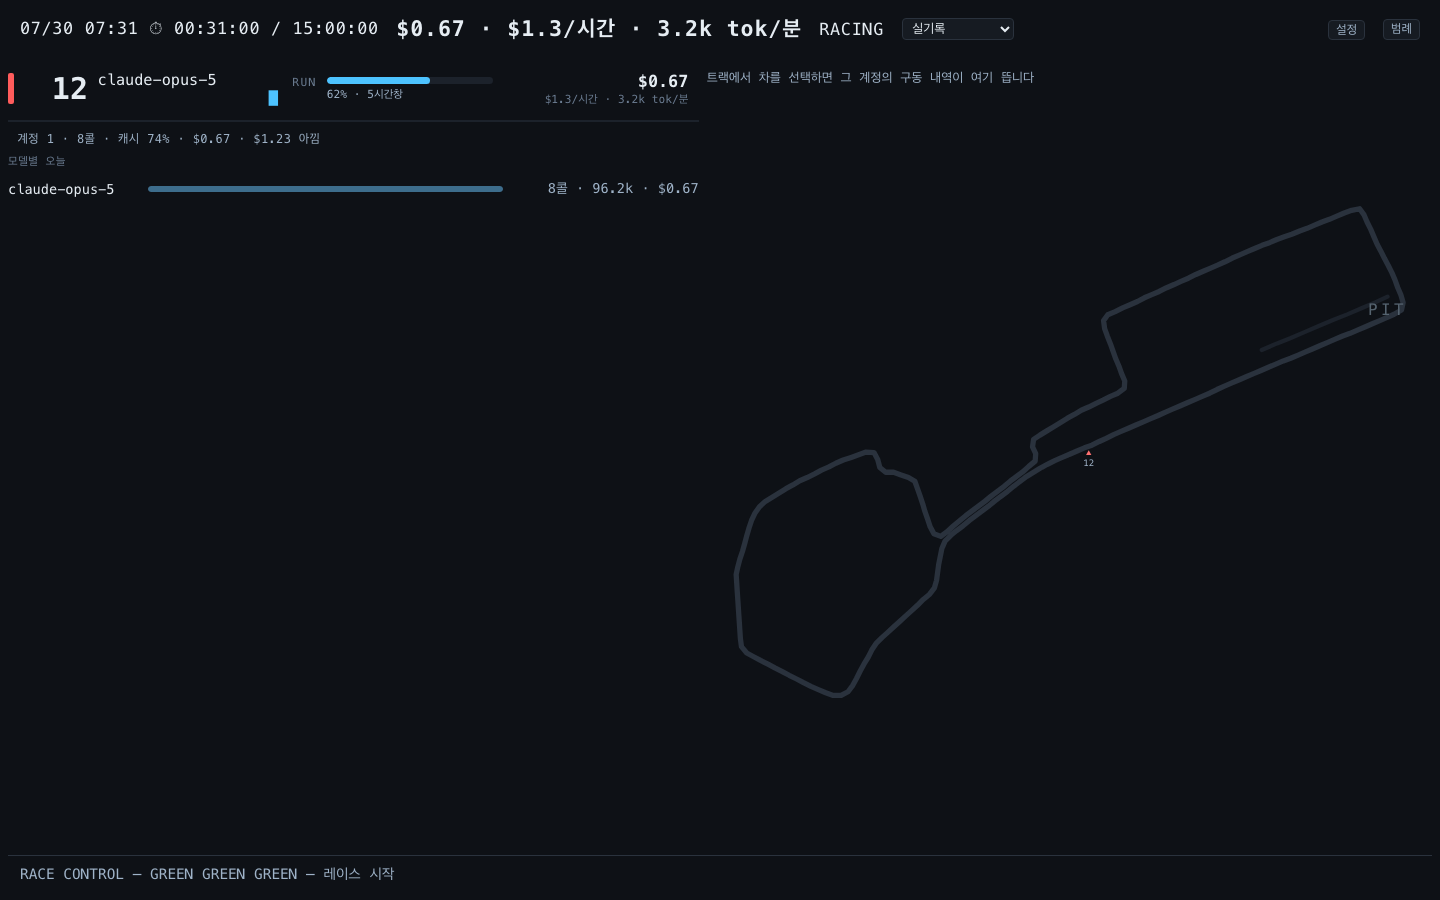
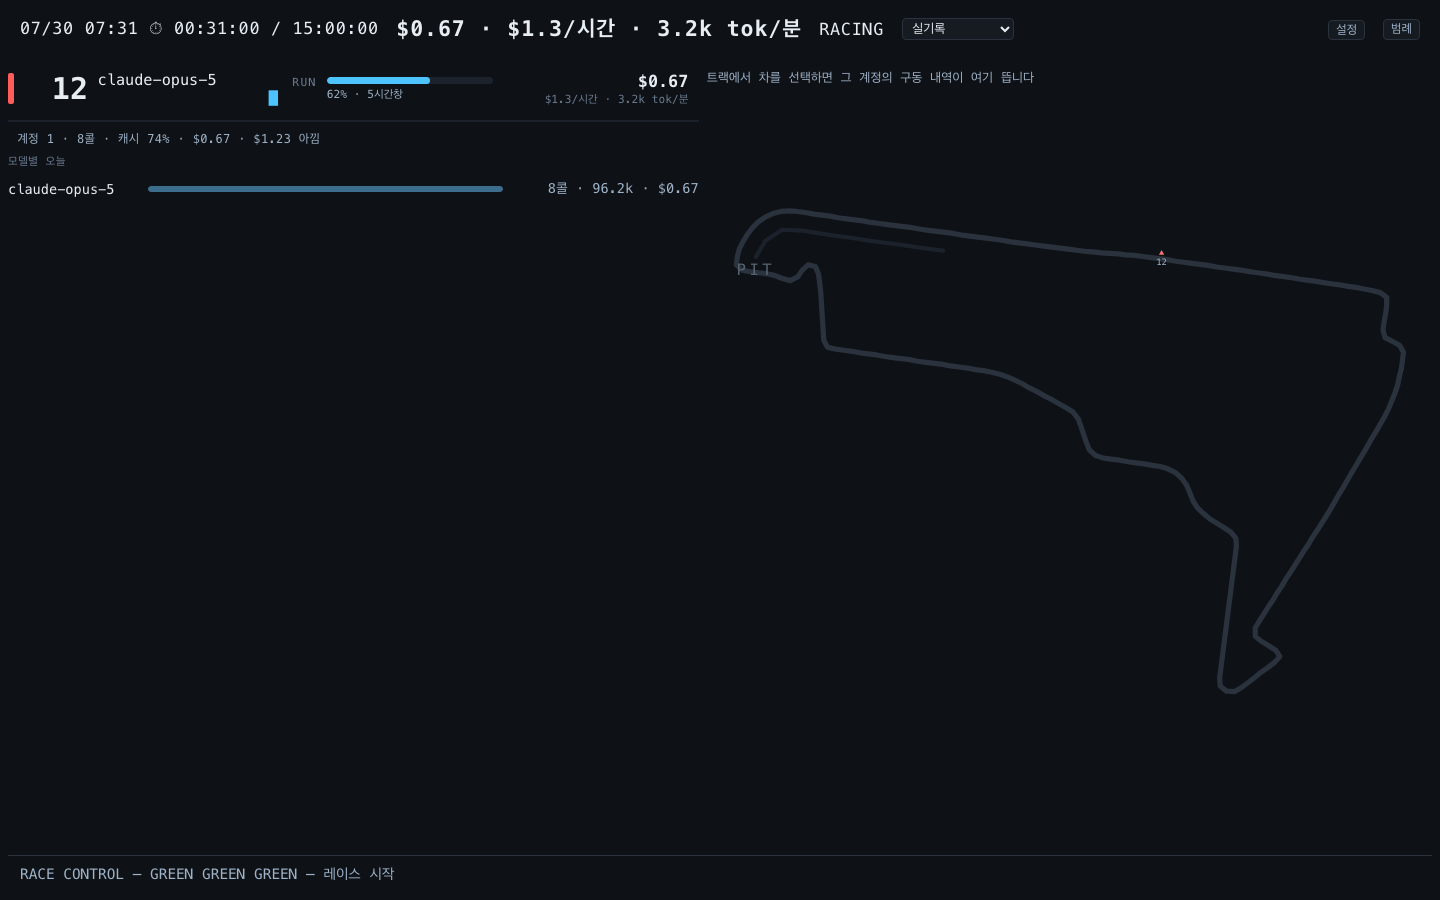
fix: park stopped cars far enough apart to be counted
Nine cars in the pit were one blob. The three stop glyphs - amber for a
spent limit, red for an error, blue for idle - sat on top of each other,
so the one thing this screen does that the other twenty tools do not,
telling apart why a car stopped, was destroyed exactly when it mattered.

Pit boxes were spaced by a fixed step of lap progress, but they are drawn
pushed inward from the centreline by PIT_LANE_OFFSET. The inside of a
curve is shorter than the centreline, so the same progress step collapses
on screen, by an amount that depends on how hard that stretch bends.
Measuring the geometry instead of chasing the browser: eight of forty real
circuits put neighbouring boxes closer than a glyph diameter with nine
cars stopped, worst 1.9 at Monaco. The gaps run 22, 24, 20, 22, 24, 13, 6,
3 - they fall apart toward the end, because the pit entry is the middle of
the flattest stretch, so the boxes walk out of it and into the corner.

No value of a progress step fixes that; the compression ratio differs per
circuit. Spacing is now a real distance along the pit lane, walked one
polyline segment at a time, placing each box once it is far enough from
the one before. Corners simply consume more lane.

The distance is set by the stop mark, not the glyph. At 1.4x the diameter
the bodies separated but the amber gauge still lay across the car ahead,
because the mark reaches 25 units above the centre. At 3x nothing touches,
[…]

diff --git a/pitwall/src/track/layout.ts b/pitwall/src/track/layout.ts
@@ -50,8 +50,31 @@ export const PIT_LANE_OFFSET = -(LANE_OFFSETS.H + LANE_JITTER + GLYPH_DIAMETER /
 /** 피트 레인 선의 굵기. 주행선보다 얇아야 어느 쪽이 코스인지 안 헷갈린다. */
 export const PIT_LANE_STROKE = TRACK_STROKE * 0.8;
 
-/** 피트 박스 사이 간격 (진행률). 글리프가 겹치지 않을 만큼. */
-const PIT_BOX_GAP = 0.008;
+/**
+ * 피트 박스 사이 최소 거리 — **화면 거리**이지 진행률이 아니다.
+ *
+ * 예전에는 진행률 0.008 고정이었다. 진행률은 **중심선** 기준인데 피트 박스는
+ * `PIT_LANE_OFFSET`만큼 안쪽으로 밀어서 그린다. 안쪽으로 민 곡선은 중심선보다
+ * 짧으므로, 코너에서는 같은 진행률 간격이 화면에서 압축된다 — 코스가 얼마나
+ * 꺾이느냐에 따라 압축률이 달라진다.
+ *
+ * 실측(40개 서킷, 정지 9대): 8개 서킷에서 이웃 간격이 글리프 지름 10 아래로
+ * 내려갔다. 최악은 `mc-1929` 1.9 · `us-1956` 2.2 · `hu-1986` 2.3. 간격이
+ * `22,24,20,22,24,13,6,3`처럼 **뒤로 갈수록 무너지는데**, 피트 진입점이
+ * 가장 덜 꺾이는 구간의 *한가운데*(`flattestStretch`)라 박스가 그 구간을 벗어나
+ * 코너로 들어가기 때문이다. 화면에서는 정지 차량 9대가 한 덩어리가 되어
+ * 한도(노랑)와 에러(빨강)를 구분할 수도, 셀 수도 없었다.
+ *
+ * **기준은 글리프가 아니라 정지 표식이다.** 표식(느낌표·빈 게이지)은 글리프 위에
+ * 그려져 중심에서 위로 25(`GLYPH_SIZE + 20`)까지 뻗고 글리프는 아래로 5 내려간다.
+ * 레인이 세로로 서면 한 대의 표식이 앞 차의 몸통을 덮으므로 필요한 것은 지름 10이
+ * 아니라 **30**이다. 실제로 1.4배(14)로 잡았을 때 글리프는 떨어졌는데 노란 게이지가
+ * 여전히 위 차에 얹혔다 — 표식이 겹치면 한도와 에러를 나눈 의미가 사라진다.
+ *
+ * 실측(서킷 40개 + 생성 시드 300개, 정지 12대): 30에서도 전부 자리를 찾고
+ * 레인 길이는 최대 529다 (좌표계 세로 1000).
+ */
+const PIT_BOX_SPACING = GLYPH_DIAMETER * 3;
 
 /**
  * 정지한 차가 서는 자리.
@@ -60,24 +83,46 @@ const PIT_BOX_GAP = 0.008;
  * 거짓이 된다 — 달리는 차의 길을 막고, 멈춘 차가 여전히 경기 중인 것처럼 보인다.
  * 실제 경기와 같이 피트로 들여보낸다.
  *
- * 박스는 피트 진입점부터 순서대로 늘어선다. 자리 번호는 호출자가 정한다.
+ * 박스는 피트 진입점부터 순서대로 늘어선다. 진행률을 일정하게 더하는 대신
+ * **피트 레인을 실제로 걸어가며** 직전 박스에서 `PIT_BOX_SPACING`만큼 떨어진
+ * 지점에 세운다. 그래서 코너에서는 자연히 더 멀리 간다.
  */
-export function pitBoxAt(track: Track, slot: number, _slots: number): Point {
-  return positionAt(track, pitProgressAt(track, slot), 'P', 0, PIT_LANE_OFFSET);
-}
-
-/** 피트 레인이 차지하는 진행률 구간. 레인을 그릴 때와 세울 때가 같은 식을 쓴다. */
-export function pitProgressAt(track: Track, slot: number): number {
-  return track.pitEntry / track.points.length + slot * PIT_BOX_GAP;
-}
-
-/** 피트 레인 폴리라인. 차만 안쪽에 떠 있으면 트랙을 벗어난 것으로 읽힌다. */
-export function pitLanePoints(track: Track, boxes = 8): Point[] {
+export function pitBoxes(track: Track, slots: number): Point[] {
   const out: Point[] = [];
-  for (let i = -1; i <= boxes; i++) {
-    out.push(positionAt(track, pitProgressAt(track, i), 'P', 0, PIT_LANE_OFFSET));
+  if (slots <= 0) return out;
+
+  const n = track.points.length;
+  const step = 1 / n;                       // 폴리라인 한 마디
+  let progress = track.pitEntry / n;
+  out.push(pitPointAt(track, progress));
+
+  // 한 바퀴가 상한이다. 실측(서킷 40개 + 생성 시드 300개, 12대)에서는
+  // 한 바퀴를 다 쓰기 전에 전부 자리를 찾았다.
+  for (let k = 0; k < n && out.length < slots; k++) {
+    progress += step;
+    const here = pitPointAt(track, progress);
+    const last = out[out.length - 1]!;
+    if (Math.hypot(here.x - last.x, here.y - last.y) >= PIT_BOX_SPACING) out.push(here);
   }
   return out;
+}
+
+function pitPointAt(track: Track, progress: number): Point {
+  return positionAt(track, progress, 'P', 0, PIT_LANE_OFFSET);
+}
+
+/**
+ * 피트 레인 폴리라인.
+ *
+ * 세우는 곳과 그리는 곳이 **같은 함수**를 쓴다. 예전에는 레인을 8칸으로 고정해
+ * 그려서 9번째 차부터는 선 밖에 떠 있었다 — 차만 안쪽에 떠 있으면 트랙을
+ * 벗어난 것으로 읽힌다. 진입 직전 한 마디를 앞에 붙여 선이 코스에서 갈라져
+ * 나오는 것처럼 보이게 한다.
+ */
+export function pitLanePoints(track: Track, boxes = 8): Point[] {
+  const spots = pitBoxes(track, Math.max(2, boxes));
+  const lead = pitPointAt(track, track.pitEntry / track.points.length - 1 / track.points.length);
+  return [lead, ...spots];
 }
 
 /** 한 레인에 그릴 수 있는 최대 차량 수 (PRD §6.4) */

diff --git a/pitwall/tests/layout.test.ts b/pitwall/tests/layout.test.ts
@@ -1,8 +1,10 @@
 import { describe, it, expect } from 'vitest';
 import {
   positionAt, assignLanes, LANE_OFFSETS, LANE_RENDER_CAP,
-  pitBoxAt, TRACK_HALF_WIDTH, GLYPH_DIAMETER,
+  pitBoxes, TRACK_HALF_WIDTH, GLYPH_DIAMETER,
 } from '../src/track/layout';
+import { CIRCUITS } from '../src/track/circuitData';
+import { toTrack } from '../src/track/circuits';
 import { generateTrack } from '../src/track/generateTrack';
 import type { CarState, CarClass } from '../src/types';
 
@@ -105,7 +107,7 @@ describe('피트', () => {
 
   it('피트 박스는 트랙 바깥에 놓인다 — 정지한 차가 주행선을 막지 않는다', () => {
     const onTrack = positionAt(track, track.pitEntry / track.points.length, 'P', 0);
-    const inPit = pitBoxAt(track, 0, 1);
+    const inPit = pitBoxes(track, 1)[0]!;
     const centre = track.points[track.pitEntry]!;
     const dOn = Math.hypot(onTrack.x - centre.x, onTrack.y - centre.y);
     const dPit = Math.hypot(inPit.x - centre.x, inPit.y - centre.y);
@@ -113,15 +115,44 @@ describe('피트', () => {
   });
 
   it('여러 대가 서면 서로 다른 박스를 쓴다', () => {
-    const a = pitBoxAt(track, 0, 3);
-    const b = pitBoxAt(track, 1, 3);
-    expect(Math.hypot(a.x - b.x, a.y - b.y)).toBeGreaterThan(GLYPH_DIAMETER);
+    const [a, b] = pitBoxes(track, 3);
+    expect(Math.hypot(a!.x - b!.x, a!.y - b!.y)).toBeGreaterThan(GLYPH_DIAMETER);
   });
 
   it('박스는 피트 구간 안에 머문다', () => {
-    for (let i = 0; i < 8; i++) {
-      const p = pitBoxAt(track, i, 8);
+    for (const p of pitBoxes(track, 8)) {
       expect(Number.isFinite(p.x) && Number.isFinite(p.y)).toBe(true);
+    }
+  });
+
+  /*
+   * 이 화면에서 정지 사유(한도 노랑 / 에러 빨강)를 나누는 것은 다른 도구가 안 하는
+   * 일인데, 글리프가 겹치면 그 구분이 그대로 죽는다. 실제로 죽어 있었다 —
+   * 40개 서킷 중 8개에서 정지 9대의 이웃 간격이 지름 10 아래로 내려갔고,
+   * `mc-1929`는 1.9였다. 원인은 간격을 **중심선 진행률**로 잡고 그리기는
+   * 안쪽으로 민 곡선에 한 것이다. 코너에서 안쪽 곡선이 짧아 간격이 압축된다.
+   *
+   * 피트에 설 수 있는 최대는 `HOT_CAP`(12)이다.
+   */
+  it('실제 서킷 40개 전부에서 정지 12대가 겹치지 않는다', () => {
+    for (const circuit of CIRCUITS) {
+      const spots = pitBoxes(toTrack(circuit, 1), 12);
+      expect(spots, circuit.id).toHaveLength(12);
+      for (let i = 1; i < spots.length; i++) {
+        const gap = Math.hypot(spots[i]!.x - spots[i - 1]!.x, spots[i]!.y - spots[i - 1]!.y);
+        expect(gap, `${circuit.id} slot ${i}`).toBeGreaterThanOrEqual(GLYPH_DIAMETER);
+      }
+    }
+  });
+
+  it('지어낸 코스에서도 같다 — 피트 진입점이 무작위다', () => {
+    for (let seed = 1; seed <= 60; seed++) {
+      const spots = pitBoxes(generateTrack(seed), 12);
+      expect(spots, `seed ${seed}`).toHaveLength(12);
+      for (let i = 1; i < spots.length; i++) {
+        const gap = Math.hypot(spots[i]!.x - spots[i - 1]!.x, spots[i]!.y - spots[i - 1]!.y);
+        expect(gap, `seed ${seed} slot ${i}`).toBeGreaterThanOrEqual(GLYPH_DIAMETER);
+      }
     }
   });
 });

diff --git a/pitwall/src/render/trackRenderer.ts b/pitwall/src/render/trackRenderer.ts
@@ -1,10 +1,11 @@
 import { trackWidth, TRACK_STROKE } from '../track/generateTrack';
 import type { Point, Track } from '../track/generateTrack';
-import { positionAt, pitBoxAt, pitLanePoints, PIT_LANE_STROKE } from '../track/layout';
+import { positionAt, pitBoxes, pitLanePoints, PIT_LANE_STROKE } from '../track/layout';
 import { Projector } from './projection';
 import { CLASS_STYLE } from '../config/theme';
 import type { CarClass } from '../types';
 import type { HotCar, RenderCar, TrackModel } from '../track/trackModel';
+import { HOT_CAP } from '../track/trackModel';
 
 const SVG_NS = 'http://www.w3.org/2000/svg';
 
@@ -193,7 +194,9 @@ export class TrackRenderer {
    * 설 자리가 그려져 있어야 정지가 사고가 아니라 피트인으로 보인다.
    */
   private drawPitLane(): void {
-    const pts = pitLanePoints(this.track);
+    // 피트에 설 수 있는 최대만큼 그린다. 8칸 고정이던 시절에는 9번째 차부터
+    // 선 밖에 떠 있었고, 그러면 정지가 아니라 코스 이탈로 읽힌다.
+    const pts = pitLanePoints(this.track, HOT_CAP);
     const path = document.createElementNS(SVG_NS, 'path');
     path.setAttribute('class', 'pit-lane');
     path.setAttribute('d', pts
@@ -328,7 +331,11 @@ export class TrackRenderer {
    */
 
   private renderHot(hot: HotCar[], labelled: boolean, now: number): void {
-    // 피트 박스 번호. 멈춘 차만 센다.
+    /*
+     * 세울 자리를 먼저 만든다. 간격이 진행률이 아니라 **앞 박스와의 실제 거리**로
+     * 정해지므로, 자리 하나를 따로 계산할 수 없고 몇 대가 서는지 알아야 한다.
+     */
+    const boxes = pitBoxes(this.track, hot.filter((c) => STOPPED.has(c.reason)).length);
     let pitSlot = 0;
 
     hot.forEach((car, i) => {
@@ -366,7 +373,8 @@ export class TrackRenderer {
       if (STOPPED.has(car.reason)) {
         // 피트에 선 차는 굴러가지 않는다. 자리만 기억해 둔다.
         this.projector.hold(car.carId, now);
-        translate(node.group, pitBoxAt(this.track, pitSlot, hot.length));
+        // 자리가 모자라면 마지막 칸에 겹쳐 세운다 — 트랙 위에 두는 것보다 낫다.
+        translate(node.group, boxes[pitSlot] ?? boxes[boxes.length - 1]!);
         pitSlot += 1;
       } else {
         const next = this.projector.step(car.carId, car.progress, now);

diff --git a/pitwall/tests/trackRenderer.test.ts b/pitwall/tests/trackRenderer.test.ts
@@ -1,6 +1,6 @@
 import { describe, it, expect, beforeEach } from 'vitest';
 import { TrackRenderer, GLYPH_DIAMETER } from '../src/render/trackRenderer';
-import { pitBoxAt } from '../src/track/layout';
+import { pitBoxes } from '../src/track/layout';
 import { generateTrack } from '../src/track/generateTrack';
 import { buildTrackModel, HOT_CAP } from '../src/track/trackModel';
 import type { HighlightType, TrackModelOptions } from '../src/track/trackModel';
@@ -471,7 +471,7 @@ describe('피트', () => {
     const g = svg.querySelector('g.car') as SVGGElement;
     const at = g.style.transform;
 
-    const box = pitBoxAt(track, 0, 1);
+    const box = pitBoxes(track, 1)[0]!;
     expect(at).toBe(`translate(${box.x.toFixed(2)}px, ${box.y.toFixed(2)}px)`);
   });
 

diff --git a/docs/superpowers/specs/2026-07-31-uiux-prd.md b/docs/superpowers/specs/2026-07-31-uiux-prd.md
@@ -1,6 +1,6 @@
 # PITWALL — UI/UX 개선 PRD
 
-**v1.2** · 2026-07-31 · 상태: **P0-1 · P1-2 · P1-3 · P1-4 반영 완료.** P1-1만 미착수
+**v1.3** · 2026-07-31 · 상태: **전부 반영 완료.** 미결은 §8만 남았다
 근거: [2차 벤치마크 §7](../../reference/2026-07-31-usage-visualisation-benchmark.md) ·
 스크린샷 `docs/screenshots/2026-07-31-before-*.png`(수정 전) / `2026-07-31-{real,dense}.png`(수정 후)
 
@@ -232,9 +232,30 @@ npm run shot            # dist/pitwall.html → docs/screenshots/YYYY-MM-DD-*.pn
 헤어핀 안쪽이고, 안쪽으로 민 곡선은 중심선보다 짧으므로 같은 진행률 간격이
 픽셀에서 압축된다. **간격을 중심선이 아니라 실제 피트 레인 폴리라인의 호 길이로 재야 한다.**
 
-**측정으로 확정하지 못해 착수하지 않았다.** 재현 시점을 잡지 못했다 —
-확인 시도에서 정지 차량이 최대 1대까지만 잡혔다. 관측된 사실(겹침)은 스크린샷으로
-확실하고, 기전은 [Medium]이다. 재현 조건부터 만드는 것이 다음 순서다.
+**뒤이어 확정했다 (v1.3).** 브라우저 타이밍을 쫓는 대신 기하를 직접 쟀다 —
+`pitBoxAt`은 순수 함수이므로 서킷 40개를 전부 돌려 정지 9대의 이웃 간격을 재면 된다.
+
+| 결과 | 값 |
+|---|---|
+| 간격이 글리프 지름(10) 아래인 서킷 | **8 / 40** |
+| 최악 | `mc-1929` 1.9 · `us-1956` 2.2 · `hu-1986` 2.3 · `au-1953` 3.0 |
+| 간격 패턴 (`au-1953`) | `22, 24, 20, 22, 24, 13, 6, 3` — **뒤로 갈수록 무너진다** |
+
+패턴이 기전을 확정한다. `flattestStretch`가 고르는 피트 진입점은 가장 덜 꺾이는
+구간의 **한가운데**라, 박스가 그 구간을 벗어나 코너로 들어가면서 압축된다.
+
+**고침은 D2의 것이 아니다.** 진행률을 조정하는 어떤 값도 이 문제를 못 푼다 —
+압축률이 코스마다 다르기 때문이다. 간격을 **레인 위 실제 거리**로 재고 걸어가며
+세운다. 진행률 대신 폴리라인 한 마디씩 전진하며 직전 박스에서 정해진 거리만큼
+떨어진 지점에 세우므로, 코너에서는 자연히 더 멀리 간다.
+
+**간격 기준은 글리프가 아니라 정지 표식이다.** 1.4배(14)로 먼저 잡았더니 글리프는
+떨어졌는데 노란 게이지가 여전히 위 차에 얹혔다 — 표식은 중심에서 위로 25까지 뻗는다.
+3배(30)로 올렸다. 실측(서킷 40 + 생성 시드 300, 정지 12대)에서 전부 자리를 찾고
+레인 최대 길이는 529다 (좌표계 세로 1000).
+
+곁다리로 하나 더 나왔다: `pitLanePoints`가 **8칸 고정**이라 9번째 차부터 그려진 선
+밖에 떠 있었다. 정지가 아니라 코스 이탈로 읽힌다. `HOT_CAP`(12)만큼 그린다.
 
 ### D3. P1-3의 "`tok/분`만 키운다"는 **실행 불가능했다** [Medium]
 
@@ -266,6 +287,7 @@ N1(스킬 판 기각) · N2(훅 기각) · N3(빈 화면 유지) · P1-4(죽은 
 | P1-3 | 속도·비용 덩어리 `1.35rem`/700 | `style.css` `.hud-pace` |
 | P1-4 | `CarEvent.agent` · `sidechain` 삭제 | `types.ts` · `claudeCodeImport.ts` · `feedRenderer.ts` |
 | P1-2 | 조작판을 `설정` 버튼 뒤로 접는다 — 범례와 같은 규칙을 공유 | `settingsPanel.ts` · `style.css` |
+| P1-1 | 피트 박스를 진행률이 아니라 **레인 위 실제 거리**로 세운다 | `layout.ts` · `trackRenderer.ts` |
 | D4 | 선택 없을 때 `—` 대신 안내문 | `feedRenderer.ts` |
 | 요청 | **무슨 스킬을 쓰는 중인지 무전에 한 줄** | `types.ts`(`CarState.skill`) · `reducer.ts` · `eventRadio.ts` |
 | 요청 | 더미 스킬 비율 25% → **실측 6.7%** | `makeDemo.ts` |
@@ -275,7 +297,7 @@ N1(스킬 판 기각) · N2(훅 기각) · N3(빈 화면 유지) · P1-4(죽은 
 비중을 주장하지 않으므로 6.7%가 100%인 척하지 않는다. 진입만 알리고 종료는 안 알리는데,
 귀속이 6.7%뿐이라 "다음 호출에 스킬이 없다"가 스킬이 끝났다는 뜻이 아니기 때문이다.
 
-**측정.** `npm test` 586개 통과(43파일) · `npx tsc --noEmit` 클린 ·
+**측정.** `npm test` 588개 통과(43파일) · `npx tsc --noEmit` 클린 ·
 `npm run shot` 재촬영으로 카넘버 10개 전부 온전, 조작판 `에러`·`한도` 둘 다 보임,
 무전에 `#710 — 스킬 — superpowers:test-driven-development` 출력 확인.
 조작판은 `설정` 버튼으로 접히고, 열면 `배속`·`하이라이트 에러/한도`가 잘림 없이 나온다.
@@ -294,8 +316,8 @@ N1(스킬 판 기각) · N2(훅 기각) · N3(빈 화면 유지) · P1-4(죽은 
 - **`isSidechain` 0건이 하네스 버전 탓인지 사용 패턴 탓인지.** `claudeview`는 `subagents/` 경로를
   전제로 하는데 이 기기에는 그 디렉터리가 없다. 서브에이전트를 실제로 쓰는 기기에서 재측정해야
   N1·P1-4의 `sidechain` 판정을 확정할 수 있다. [Medium]
-- **P1-1 재현 조건.** 정지 차량 9대가 동시에 서는 시점을 다시 만들어야 D2의 기전
-  (중심선 진행률 vs 오프셋 폴리라인 호 길이)을 확정할 수 있다. 그 전에는 고치지 않는다.
+- **피트가 13대 이상이면.** `HOT_CAP`이 12라 지금은 안 생긴다. 상한이 올라가면
+  `+N` 배지(`LaneAssignment.clustered` 패턴)를 붙여야 한다 — 지금 만들지 않는다.
 - **`npm run shot`의 뷰포트가 앱 창과 다르다.** 헤드리스는 1440×900 요청에 1440×813을 준다.
   비율은 rem으로 고정이라 잘림 판정은 같이 나오지만, **절대 px를 이 화면에서 읽으면 안 된다** —
   초안이 정확히 그 함정에 빠졌다 (§6 D1).
